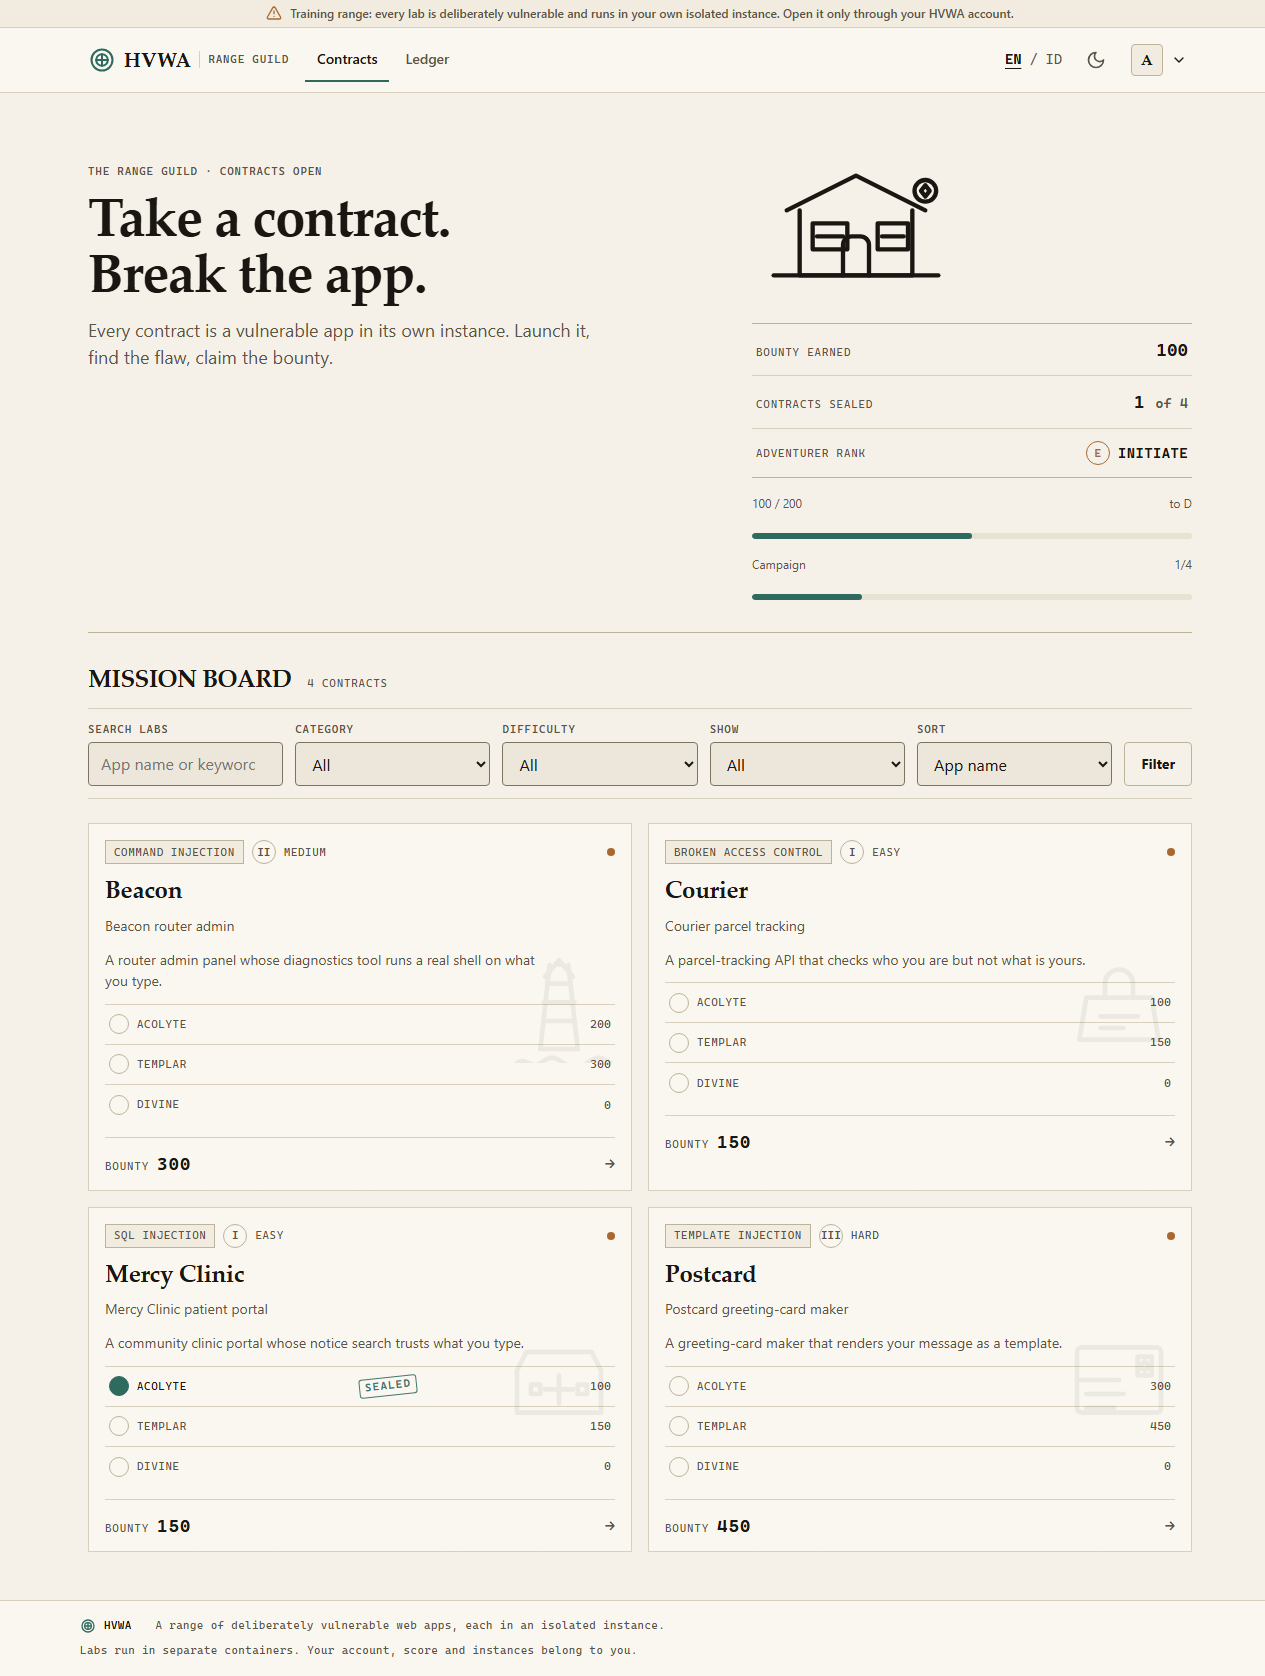
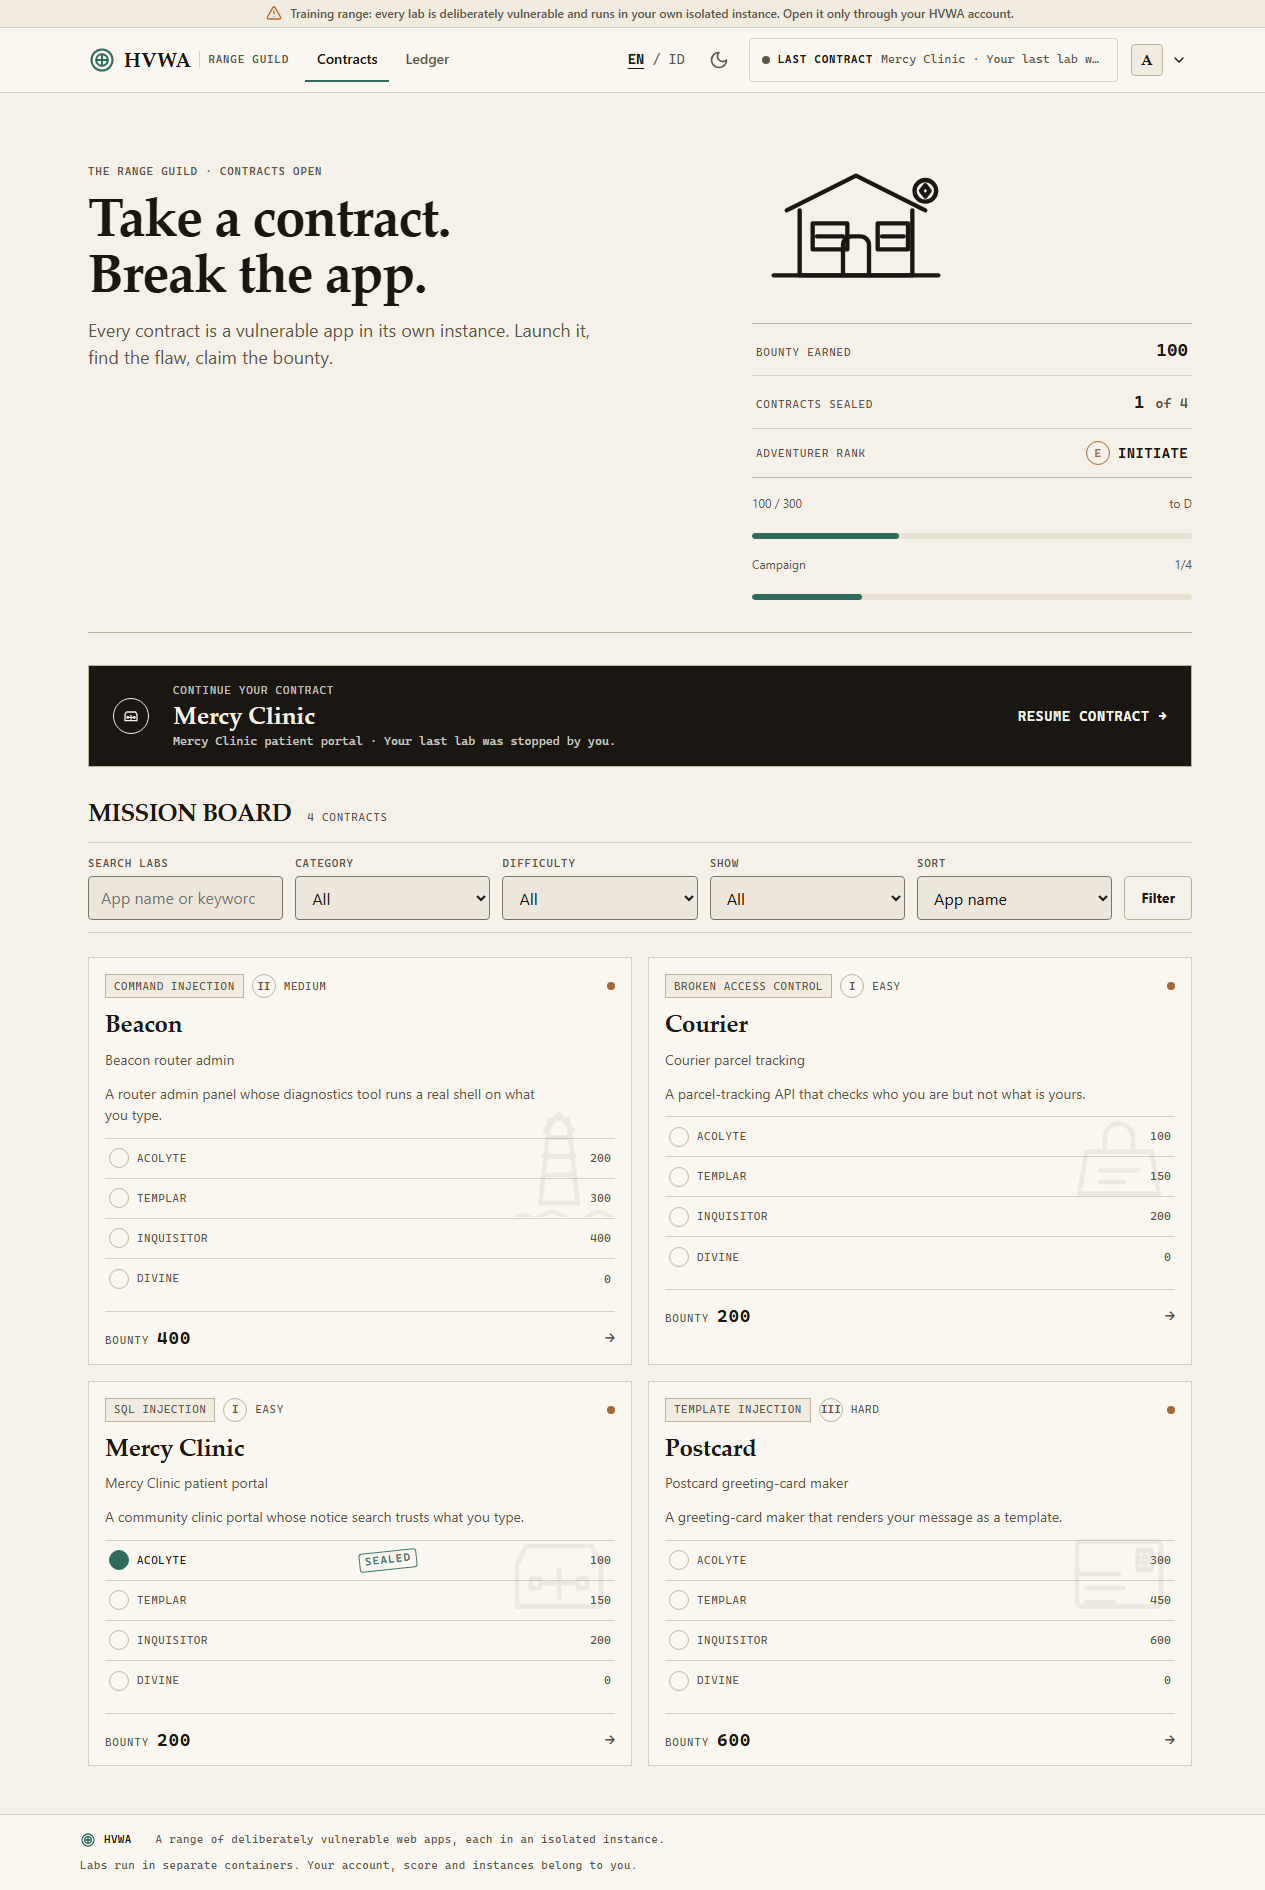
docs: four-level Inquisitor results and final UI screenshots

diff --git a/docs/POC-REPORT.md b/docs/POC-REPORT.md
@@ -30,7 +30,7 @@ Hasil verifikasi lokal terakhir:
 | `npm run range:verify` | **16/16 PASS**, launch-to-ready 1.0–1.5 s |
 | `npm run verify:dist` (full + lite) | OK |
 | `npm run range:build` | image portal & warden dibuat |
-| `npm run poc:e2e` | **PASS 4 lab × 4 level** (angka final menyusul run E2E) |
+| `npm run poc:e2e` | **PASS 4 lab × 4 level, 160 check** |
 | UI | **Guild Ledger** light/dark, rank E–S, 8 ilustrasi custom, toast |
 | Commit attribution | **0** (`Co-Authored-By`/Claude/chatbot tidak dipakai) |
 
@@ -208,18 +208,18 @@ Belum dikerjakan (dicatat jujur):
 ### 7.3 Platform E2E (`npm run range:verify`)
 
 - **16/16 PASS**: portal via tunnel stand-in, tidak ada port publik, cookie host-only, limit registrasi per IP, launch-to-ready, hardening container, gate ticket/cookie/replay, tidak ada cookie portal/secret ke lab, cross-user 401, egress/DNS/portal/warden/socket/instance lain/Traefik diblokir, flag file/env/uid dan penolakan flag milik user lain, socket-proxy allowlist, capacity penuh, reaper, reconcile, stop cleanup.
-- Launch-to-ready pada run final: **1067 ms, 1454 ms, 1031 ms** (run sebelumnya 1474–1639 ms).
+- Launch-to-ready pada run final: **1508 ms, 1617 ms, 1508 ms** (run sebelumnya 1031–1639 ms; satu run sempat flake di probe isolasi dan lolos bersih saat diulang).
 
 ### 7.4 E2E lab nyata lewat portal (`npm run poc:e2e`)
 
-**119 check PASS.** Setiap lab dijalankan melalui portal: register/login (CSRF + Origin/Sec-Fetch-Site), katalog, launch, panel sampai `running`, open via gate ticket sekali pakai → cookie `hvwa_gate`, landing page lab, penolakan tanpa cookie, solve referensi di runner container pada jaringan instance, submit flag, cek no-leak di `docker inspect`/`docker logs`, lalu Stop dan cleanup. Divine menjalankan semua solve dan tidak menghasilkan flag.
+**160 check PASS.** Setiap lab dijalankan melalui portal: register/login (CSRF + Origin/Sec-Fetch-Site), katalog, launch, panel sampai `running`, open via gate ticket sekali pakai → cookie `hvwa_gate`, landing page lab, penolakan tanpa cookie, solve referensi di runner container pada jaringan instance, submit flag, cek no-leak di `docker inspect`/`docker logs`, lalu Stop dan cleanup. Divine menjalankan **acolyte, templar, dan inquisitor** dan tidak menghasilkan flag.
 
-| Lab | Acolyte | Templar | Divine |
-|---|---|---|---|
-| r01 Mercy Clinic | PASS (981 ms) | PASS (1532 ms) | PASS — resists (1321 ms) |
-| r02 Courier | PASS (1483 ms) | PASS (1509 ms) | PASS — resists (1440 ms) |
-| r03 Beacon | PASS (1005 ms) | PASS (1062 ms) | PASS — resists (1349 ms) |
-| r04 Postcard | PASS (3499 ms) | PASS (3578 ms) | PASS — resists (3432 ms) |
+| Lab | Acolyte | Templar | Inquisitor | Divine |
+|---|---|---|---|---|
+| r01 Mercy Clinic | PASS (1573 ms) | PASS (1597 ms) | PASS (1552 ms) | PASS — resists (1387 ms) |
+| r02 Courier | PASS (1501 ms) | PASS (1581 ms) | PASS (1558 ms) | PASS — resists (1439 ms) |
+| r03 Beacon | PASS (1508 ms) | PASS (1852 ms) | PASS (1513 ms) | PASS — resists (1389 ms) |
+| r04 Postcard | PASS (3639 ms) | PASS (3569 ms) | PASS (3795 ms) | PASS — resists (3457 ms) |
 
 Detail lengkap ada di [`docs/poc-e2e-results.md`](poc-e2e-results.md) dan [`docs/poc-e2e-results.json`](poc-e2e-results.json). Cleanup terverifikasi: tidak ada container `hvwa.range=1`, network `hvwa-i-*`, maupun sisa project E2E.
 
@@ -298,7 +298,7 @@ Di host POC (harvez) default compose adalah `runsc`; jangan override ke `runc` d
 
 ## 10. Galeri screenshot
 
-Diambil dengan Chrome headless dari container lab yang sudah di-enhance (level Divine, tanpa flag) dan dari portal hidup. Semua gambar ada di [`docs/screenshots/`](screenshots/).
+Diambil dengan Chrome headless dari container lab yang sudah di-enhance (level Divine, tanpa flag) dan dari portal hidup. Screenshot portal menampilkan **4 tier** (Acolyte/Templar/Inquisitor + Divine) dan rank E–S. Semua gambar ada di [`docs/screenshots/`](screenshots/).
 
 ### Portal — Guild Ledger
 
@@ -350,6 +350,6 @@ Diambil dengan Chrome headless dari container lab yang sudah di-enhance (level D
 
 ## 11. Bukti commit & hygiene
 
-- `master` berisi merge Plan A (platform), Plan B (labs), `sec-flag` (keamanan flag), enhancement lab r01–r04, enhancement flow portal, dan redesain UI Guild Ledger (rank E–S, ilustrasi, toast).
+- `master` berisi merge Plan A (platform), Plan B (labs), `sec-flag` (keamanan flag), enhancement lab r01–r04, enhancement flow portal, redesain UI Guild Ledger (rank E–S, ilustrasi, toast), dan pengembalian **Inquisitor** sebagai level ke-4 dengan chain per lab.
 - **Tidak ada** `Co-Authored-By`, Claude, atau chatbot attribution di commit mana pun sejak `d49bf8e`.
 - `context.md` tetap untracked dan tidak disentuh.
